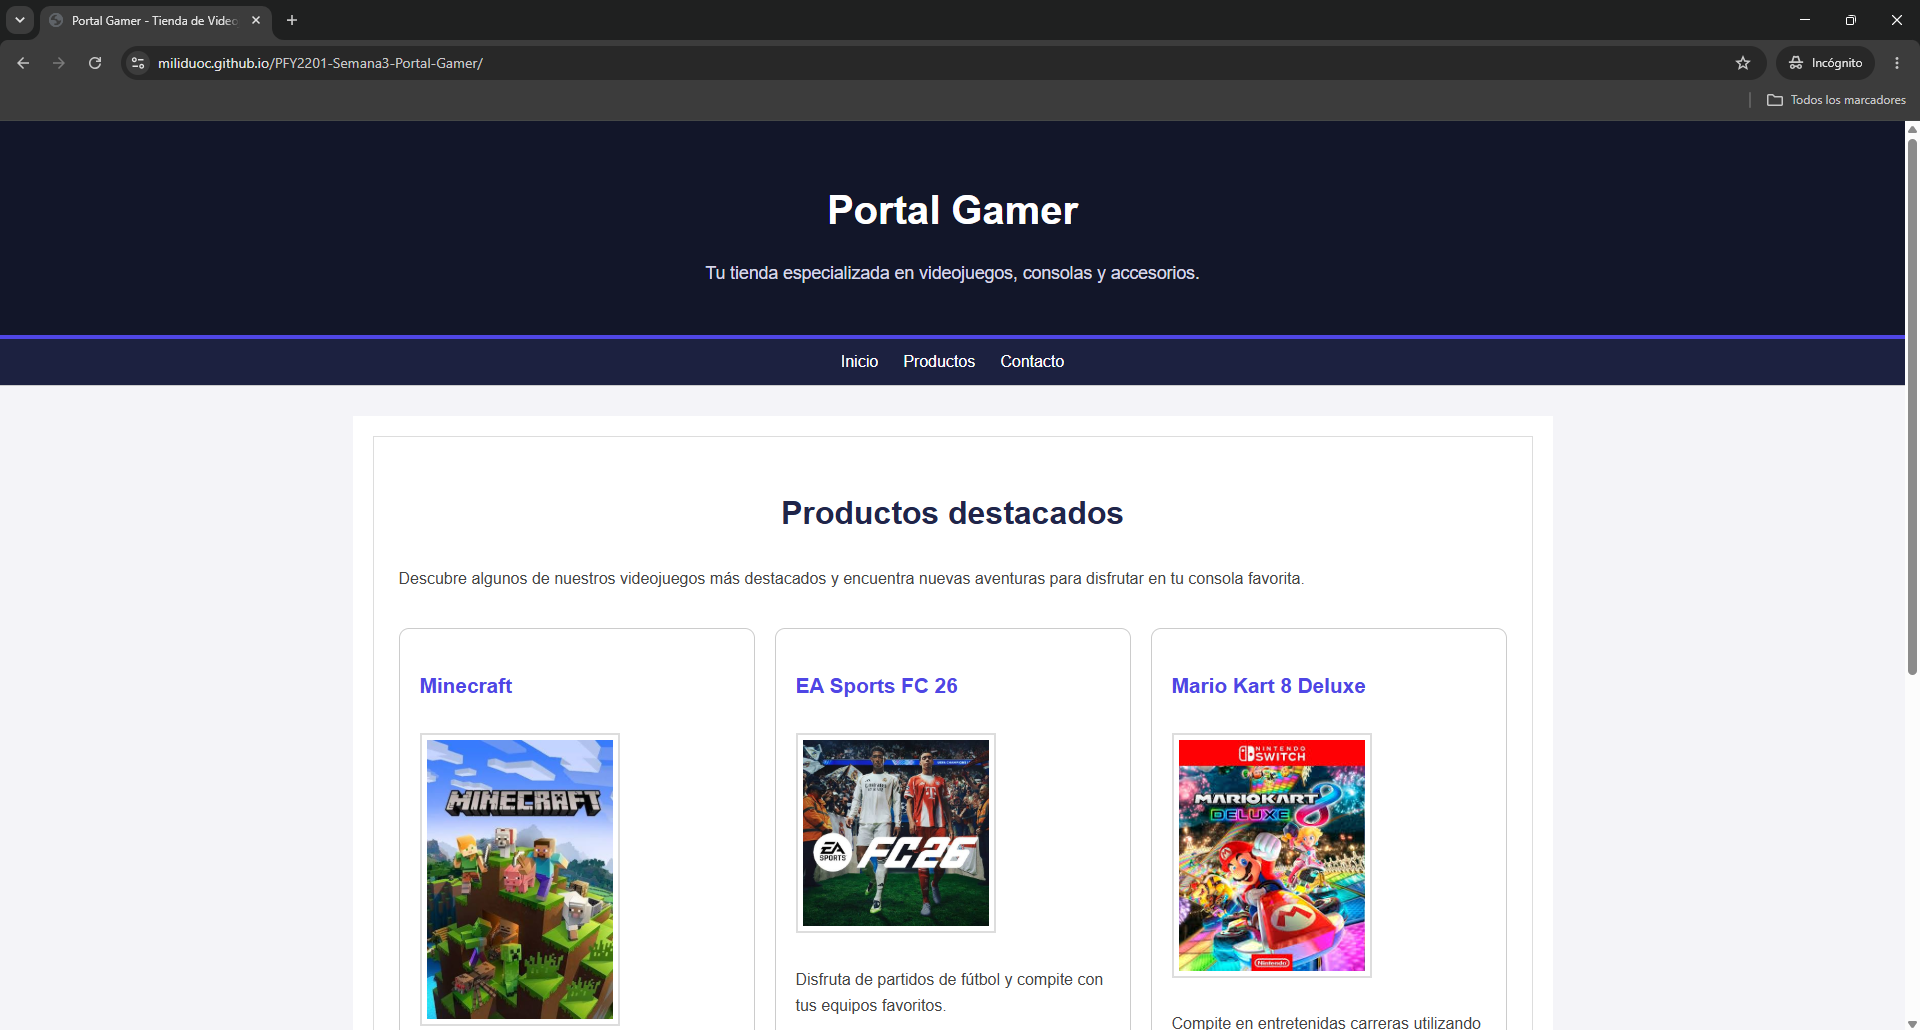
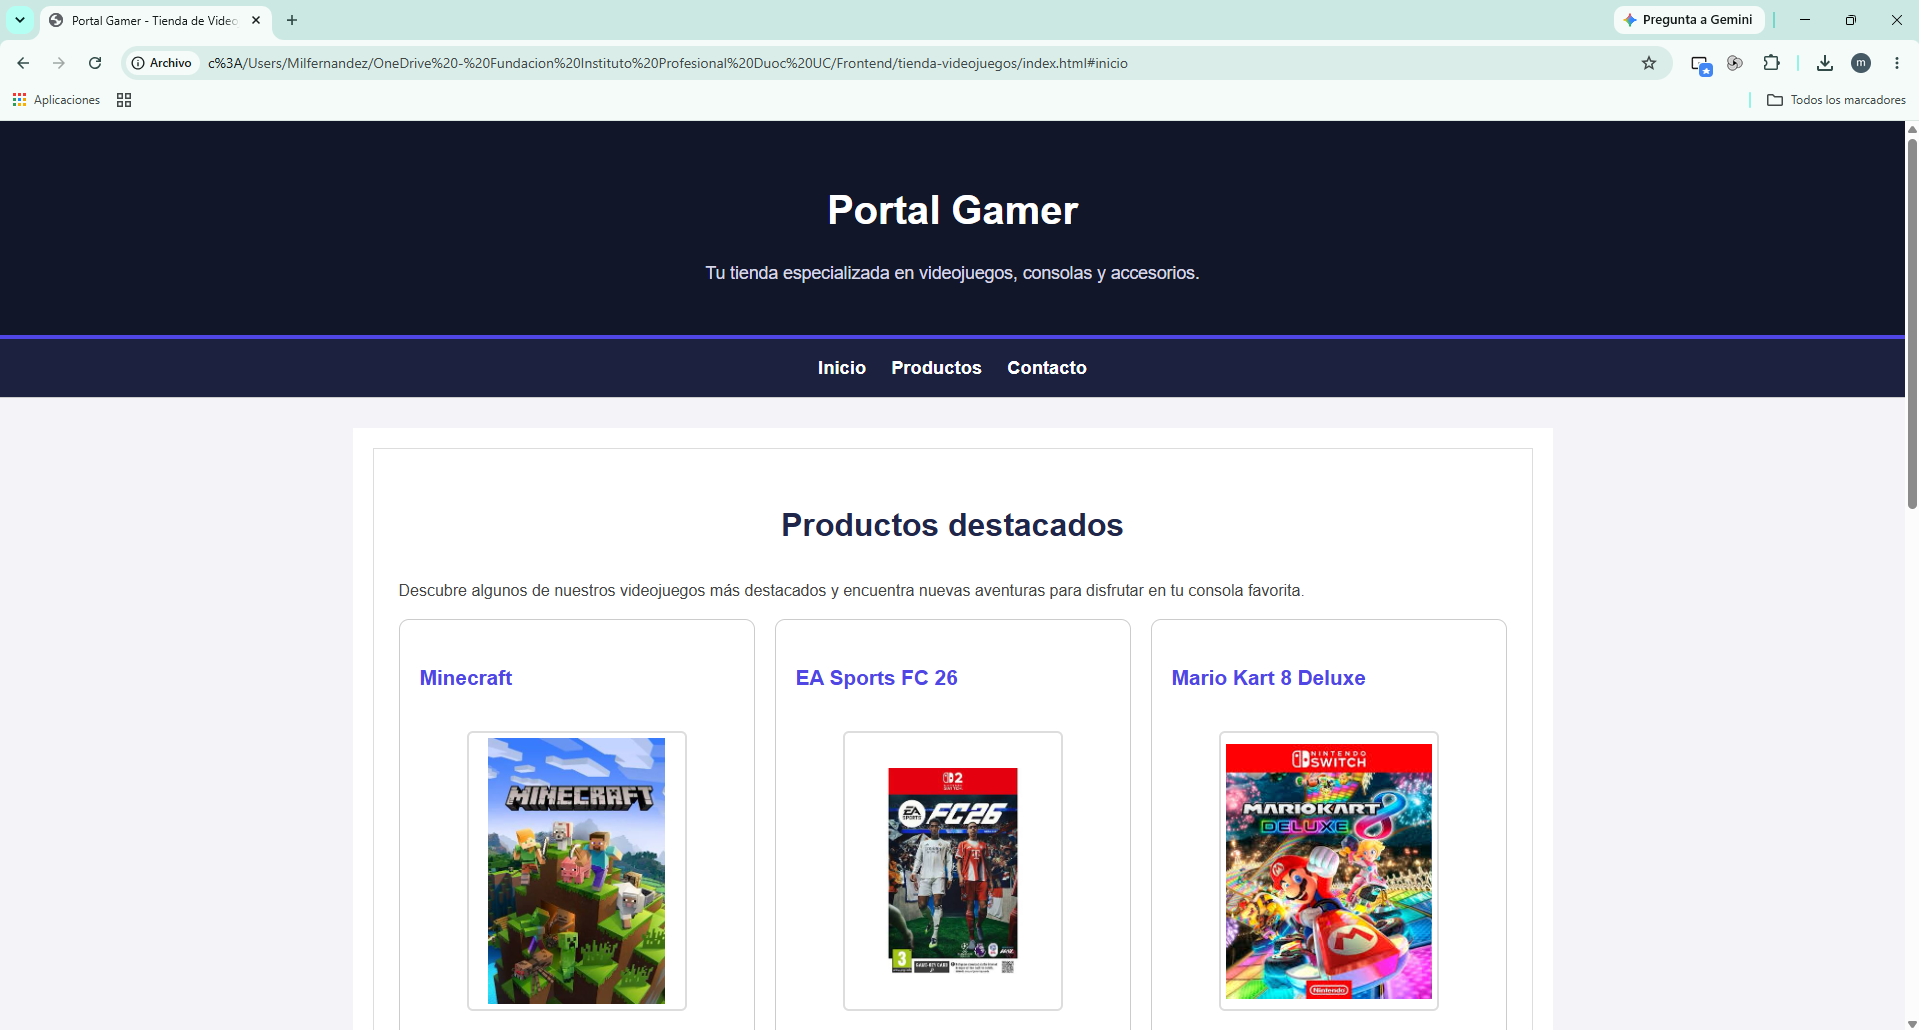
Finalizar Sumativa Semana 3 con productos y evidencias

diff --git a/index.html b/index.html
@@ -45,12 +45,17 @@
 
                     <img src="img/minecraft.jpg"
                          alt="Portada del videojuego Minecraft"
-                         width="200">
+                         class="imagen-producto">
 
                     <p>
                         Explora, construye y crea tus propias aventuras
                         en un mundo lleno de posibilidades.
                     </p>
+
+                    <p class="precio">$29.990</p>
+                    <button class="btn-carro" type="button">
+                        Agregar al carro
+                    </button>
                 </li>
 
 
@@ -60,12 +65,17 @@
 
                     <img src="img/fc26.jpg"
                          alt="Portada del videojuego EA Sports FC 26"
-                         width="200">
+                         class="imagen-producto">
 
                     <p>
                         Disfruta de partidos de fútbol y compite
                         con tus equipos favoritos.
                     </p>
+
+                    <p class="precio">$59.990</p>
+                    <button class="btn-carro" type="button">
+                        Agregar al carro
+                    </button>
                 </li>
 
 
@@ -75,14 +85,74 @@
 
                     <img src="img/mariokart.jpg"
                          alt="Portada del videojuego Mario Kart 8 Deluxe"
-                         width="200">
+                         class="imagen-producto">
 
                     <p>
                         Compite en entretenidas carreras utilizando
                         personajes clásicos del universo de Mario.
                     </p>
+
+                    <p class="precio">$49.990</p>
+                    <button class="btn-carro" type="button">
+                        Agregar al carro
+                    </button>
                 </li>
 
+                <!-- Producto 4 -->
+                <li class="producto">
+                    <h3>The Legend of Zelda: Tears of the Kingdom</h3>
+
+                    <img src="img/zelda.jpg"
+                        alt="Portada del videojuego The Legend of Zelda Tears of the Kingdom"
+                        class="imagen-producto">
+                    <p>
+                        Explora Hyrule y descubre nuevas aventuras,
+                       desafíos y misterios en un enorme mundo abierto.
+                    </p>
+
+                    <p class="precio">$54.990</p>
+                    <button class="btn-carro" type="button">
+                        Agregar al carro
+                    </button>
+                </li>
+
+                <!-- Producto 5 -->
+                <li class="producto">
+                    <h3>Marvel's Spider-Man 2</h3>
+
+                    <img src="img/spiderman2.jpg"
+                        alt="Portada del videojuego Marvel's Spider-Man 2"
+                        class="imagen-producto">
+
+                    <p>
+                        Recorre Nueva York junto a Peter Parker y Miles Morales
+                        enfrentando nuevas amenazas y poderosos enemigos.
+                    </p>
+
+                    <p class="precio">$64.990</p>
+                    <button class="btn-carro" type="button">
+                        Agregar al carro
+                    </button>
+                </li>
+
+                <!-- Producto 6 -->
+                <li class="producto">
+                    <h3>God of War Ragnarök</h3>
+
+                    <img src="img/godofwar.jpg"
+                        alt="Portada del videojuego God of War Ragnarök"
+                        class="imagen-producto">
+
+                    <p>
+                        Acompaña a Kratos y Atreus en una aventura épica
+                        inspirada en la mitología nórdica.
+                    </p>
+
+                    <p class="precio">$69.990</p>
+                    <button class="btn-carro" type="button">
+                        Agregar al carro
+                    </button>
+                </li>
             </ul>
 
         </section>
@@ -93,23 +163,27 @@
 
         <h2>Contacto</h2>
 
-        <p>Portal Gamer - Tienda de Videojuegos</p>
+        <div class="footer-contenido">
 
-        <p>
-            Correo:
-            <a href="mailto:contacto@portalgamer.cl">
-                contacto@portalgamer.cl
-            </a>
-        </p>
+            <p>Portal Gamer - Tienda de Videojuegos</p>
 
-        <p>
-            Síguenos en nuestras redes sociales:
-            <a href="https://www.instagram.com/"
-            target="_blank"
-            rel="noopener noreferrer">
-                Instagram
-            </a>
-        </p>
+            <p>
+                Correo:
+                <a href="mailto:contacto@portalgamer.cl">
+                    contacto@portalgamer.cl
+                </a>
+            </p>
+
+            <p>
+                Síguenos en nuestras redes sociales:
+                <a href="https://www.instagram.com/"
+                target="_blank"
+                rel="noopener noreferrer">
+                    Instagram
+                </a>
+            </p>
+
+        </div>
 
         <p>&copy; 2026 Portal Gamer. Todos los derechos reservados.</p>
 

diff --git a/css/styles.css b/css/styles.css
@@ -22,7 +22,8 @@ header {
 
 /* Menú de navegación */
 nav {
-    padding: 10px 20px;
+    padding: 14px 20px;
+    background-color: #1c2140;
     border-bottom: 1px solid #cccccc;
 }
 
@@ -43,18 +44,22 @@ main {
 
 /* Cada producto */
 #productos li {
-    margin: 20px 0;
+    margin: 0;
     padding: 20px;
     border: 1px solid #cccccc;
 }
 
 /* Imágenes */
-#productos img {
-    max-width: 100%;
-    height: auto;
-    margin: 10px 0;
+.imagen-producto {
+    width: 100%;
+    max-width: 220px;
+    height: 280px;
+    object-fit: contain;
+    display: block;
+    margin: 10px auto;
     padding: 5px;
     border: 2px solid #dddddd;
+    border-radius: 6px;
 }
 
 /* Pie de página */
@@ -92,11 +97,6 @@ header p {
     color: #d8d8e8;
 }
 
-/* Navegación */
-nav {
-    background-color: #1c2140;
-}
-
 nav ul {
     list-style: none;
     display: flex;
@@ -109,7 +109,8 @@ nav ul {
 nav a {
     color: #ffffff;
     text-decoration: none;
-    font-size: 1rem;
+    font-size: 1.15rem;
+    font-weight: 600;
 }
 
 /* Contenido principal */
@@ -128,12 +129,37 @@ main {
 #productos h3 {
     color: #4f46e5;
     font-size: 1.3rem;
+    min-height: 50px;
+    margin-bottom: 10px;
 }
 
 /* Texto de productos */
 #productos p {
     font-size: 1rem;
     color: #444444;
+}
+
+#productos .precio {
+    font-size: 1.3rem;
+    font-weight: bold;
+    color: #20254a;
+    margin-top: auto;
+}
+
+.btn-carro {
+    width: 100%;
+    padding: 12px;
+    border: none;
+    border-radius: 6px;
+    background-color: #4f46e5;
+    color: #ffffff;
+    font-size: 1rem;
+    font-weight: bold;
+    cursor: pointer;
+}
+
+.btn-carro:hover {
+    background-color: #3730a3;
 }
 
 /* Pie de página */
@@ -150,6 +176,15 @@ footer h2 {
 footer a {
     color: #b9b5ff;
     text-decoration: none;
+}
+
+/* FLEXBOX DEL FOOTER */
+.footer-contenido {
+    display: flex;
+    justify-content: center;
+    align-items: center;
+    gap: 30px;
+    flex-wrap: wrap;
 }
 
 /* =========================================
@@ -175,6 +210,9 @@ footer a {
 .producto {
     border-radius: 10px;
     transition: transform 0.3s ease, box-shadow 0.3s ease;
+
+    display: flex;
+    flex-direction: column;
 }
 
 /* Pseudo-clase */
@@ -202,6 +240,11 @@ nav a:hover {
 }
 
 /* Accesibilidad con focus */
+.btn-carro:focus {
+    outline: 3px solid #ffd166;
+    outline-offset: 3px;
+}
+
 nav a:focus,
 footer a:focus {
     outline: 3px solid #ffd166;
@@ -266,7 +309,7 @@ footer a:hover {
     nav ul {
         flex-direction: column;
         align-items: center;
-        gap: 10px;
+        gap: 4px;
     }
 
     nav li {
@@ -275,7 +318,7 @@ footer a:hover {
 
     nav a {
         display: block;
-        padding: 8px;
+        padding: 6px 8px;
     }
 
     main {
@@ -292,11 +335,6 @@ footer a:hover {
         font-size: 1.6rem;
     }
 
-    #productos img {
-        width: 100%;
-        max-width: 300px;
-    }
-
     .producto {
         padding: 15px;
     }
@@ -305,7 +343,14 @@ footer a:hover {
         grid-template-columns: 1fr;
     }
 
+    .footer-contenido {
+        flex-direction: column;
+        gap: 5px;
+    }
+
     footer {
         padding: 20px 15px;
     }
+
+    
 }
